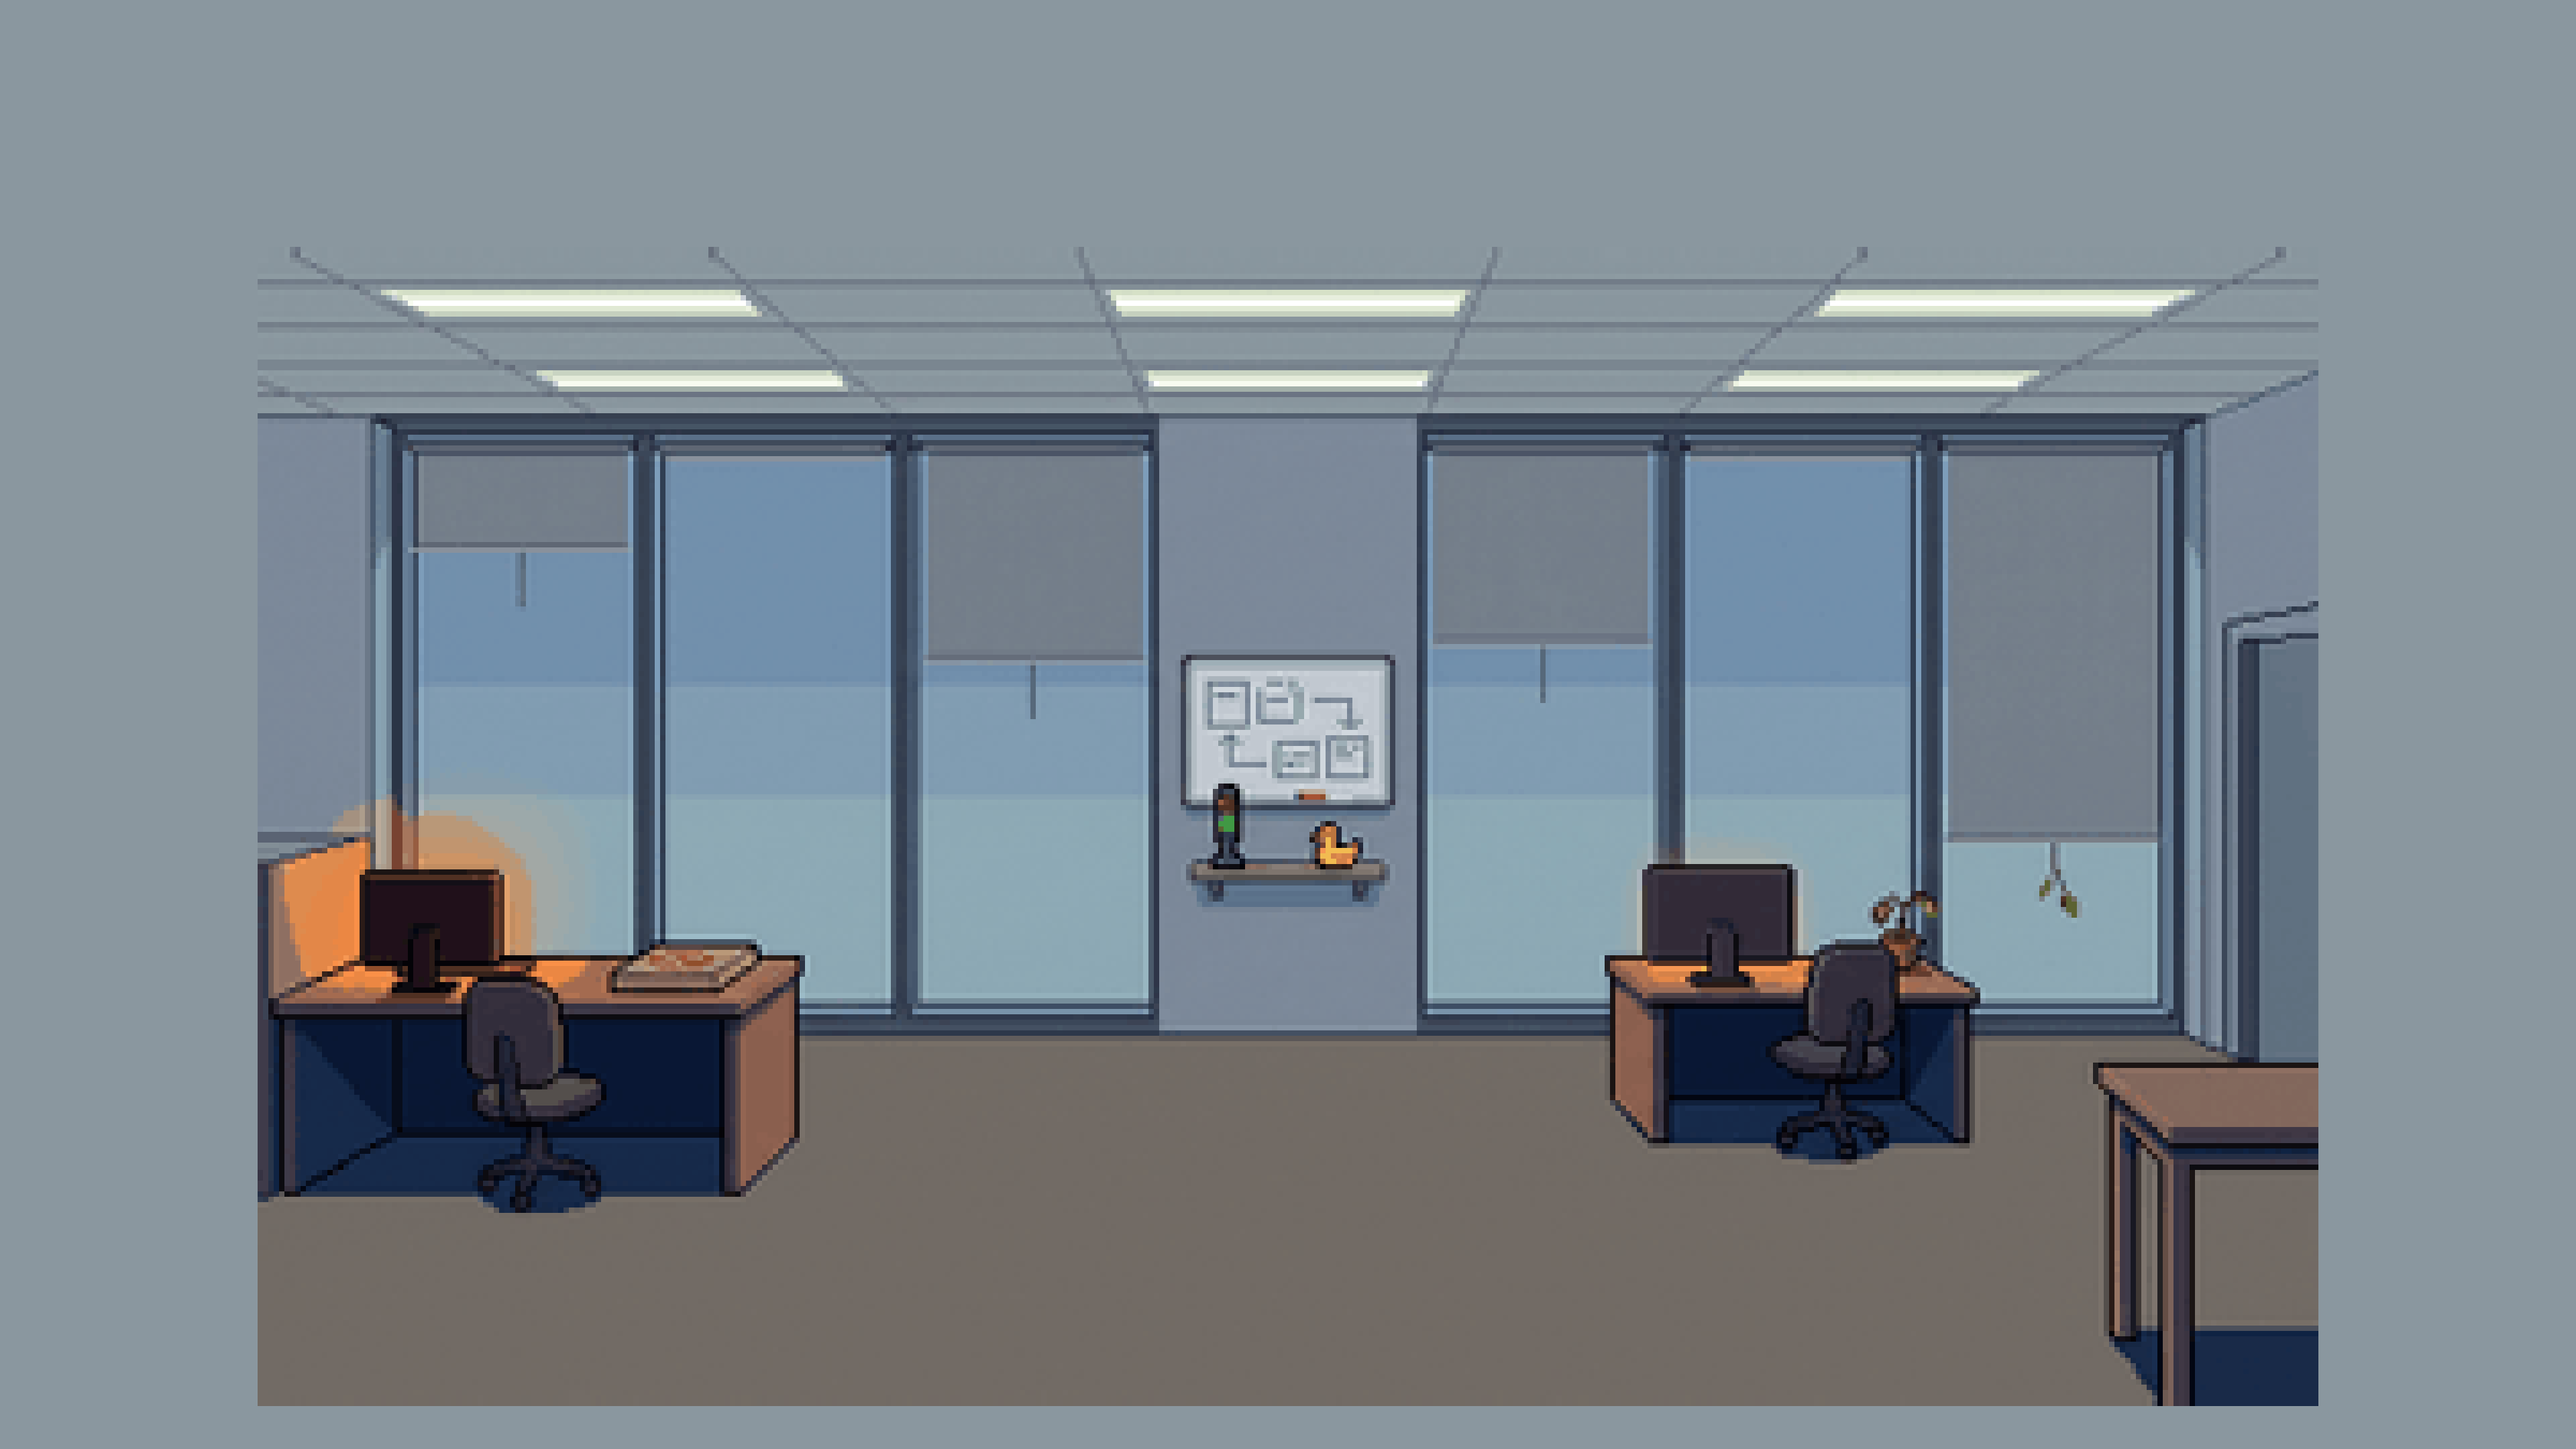
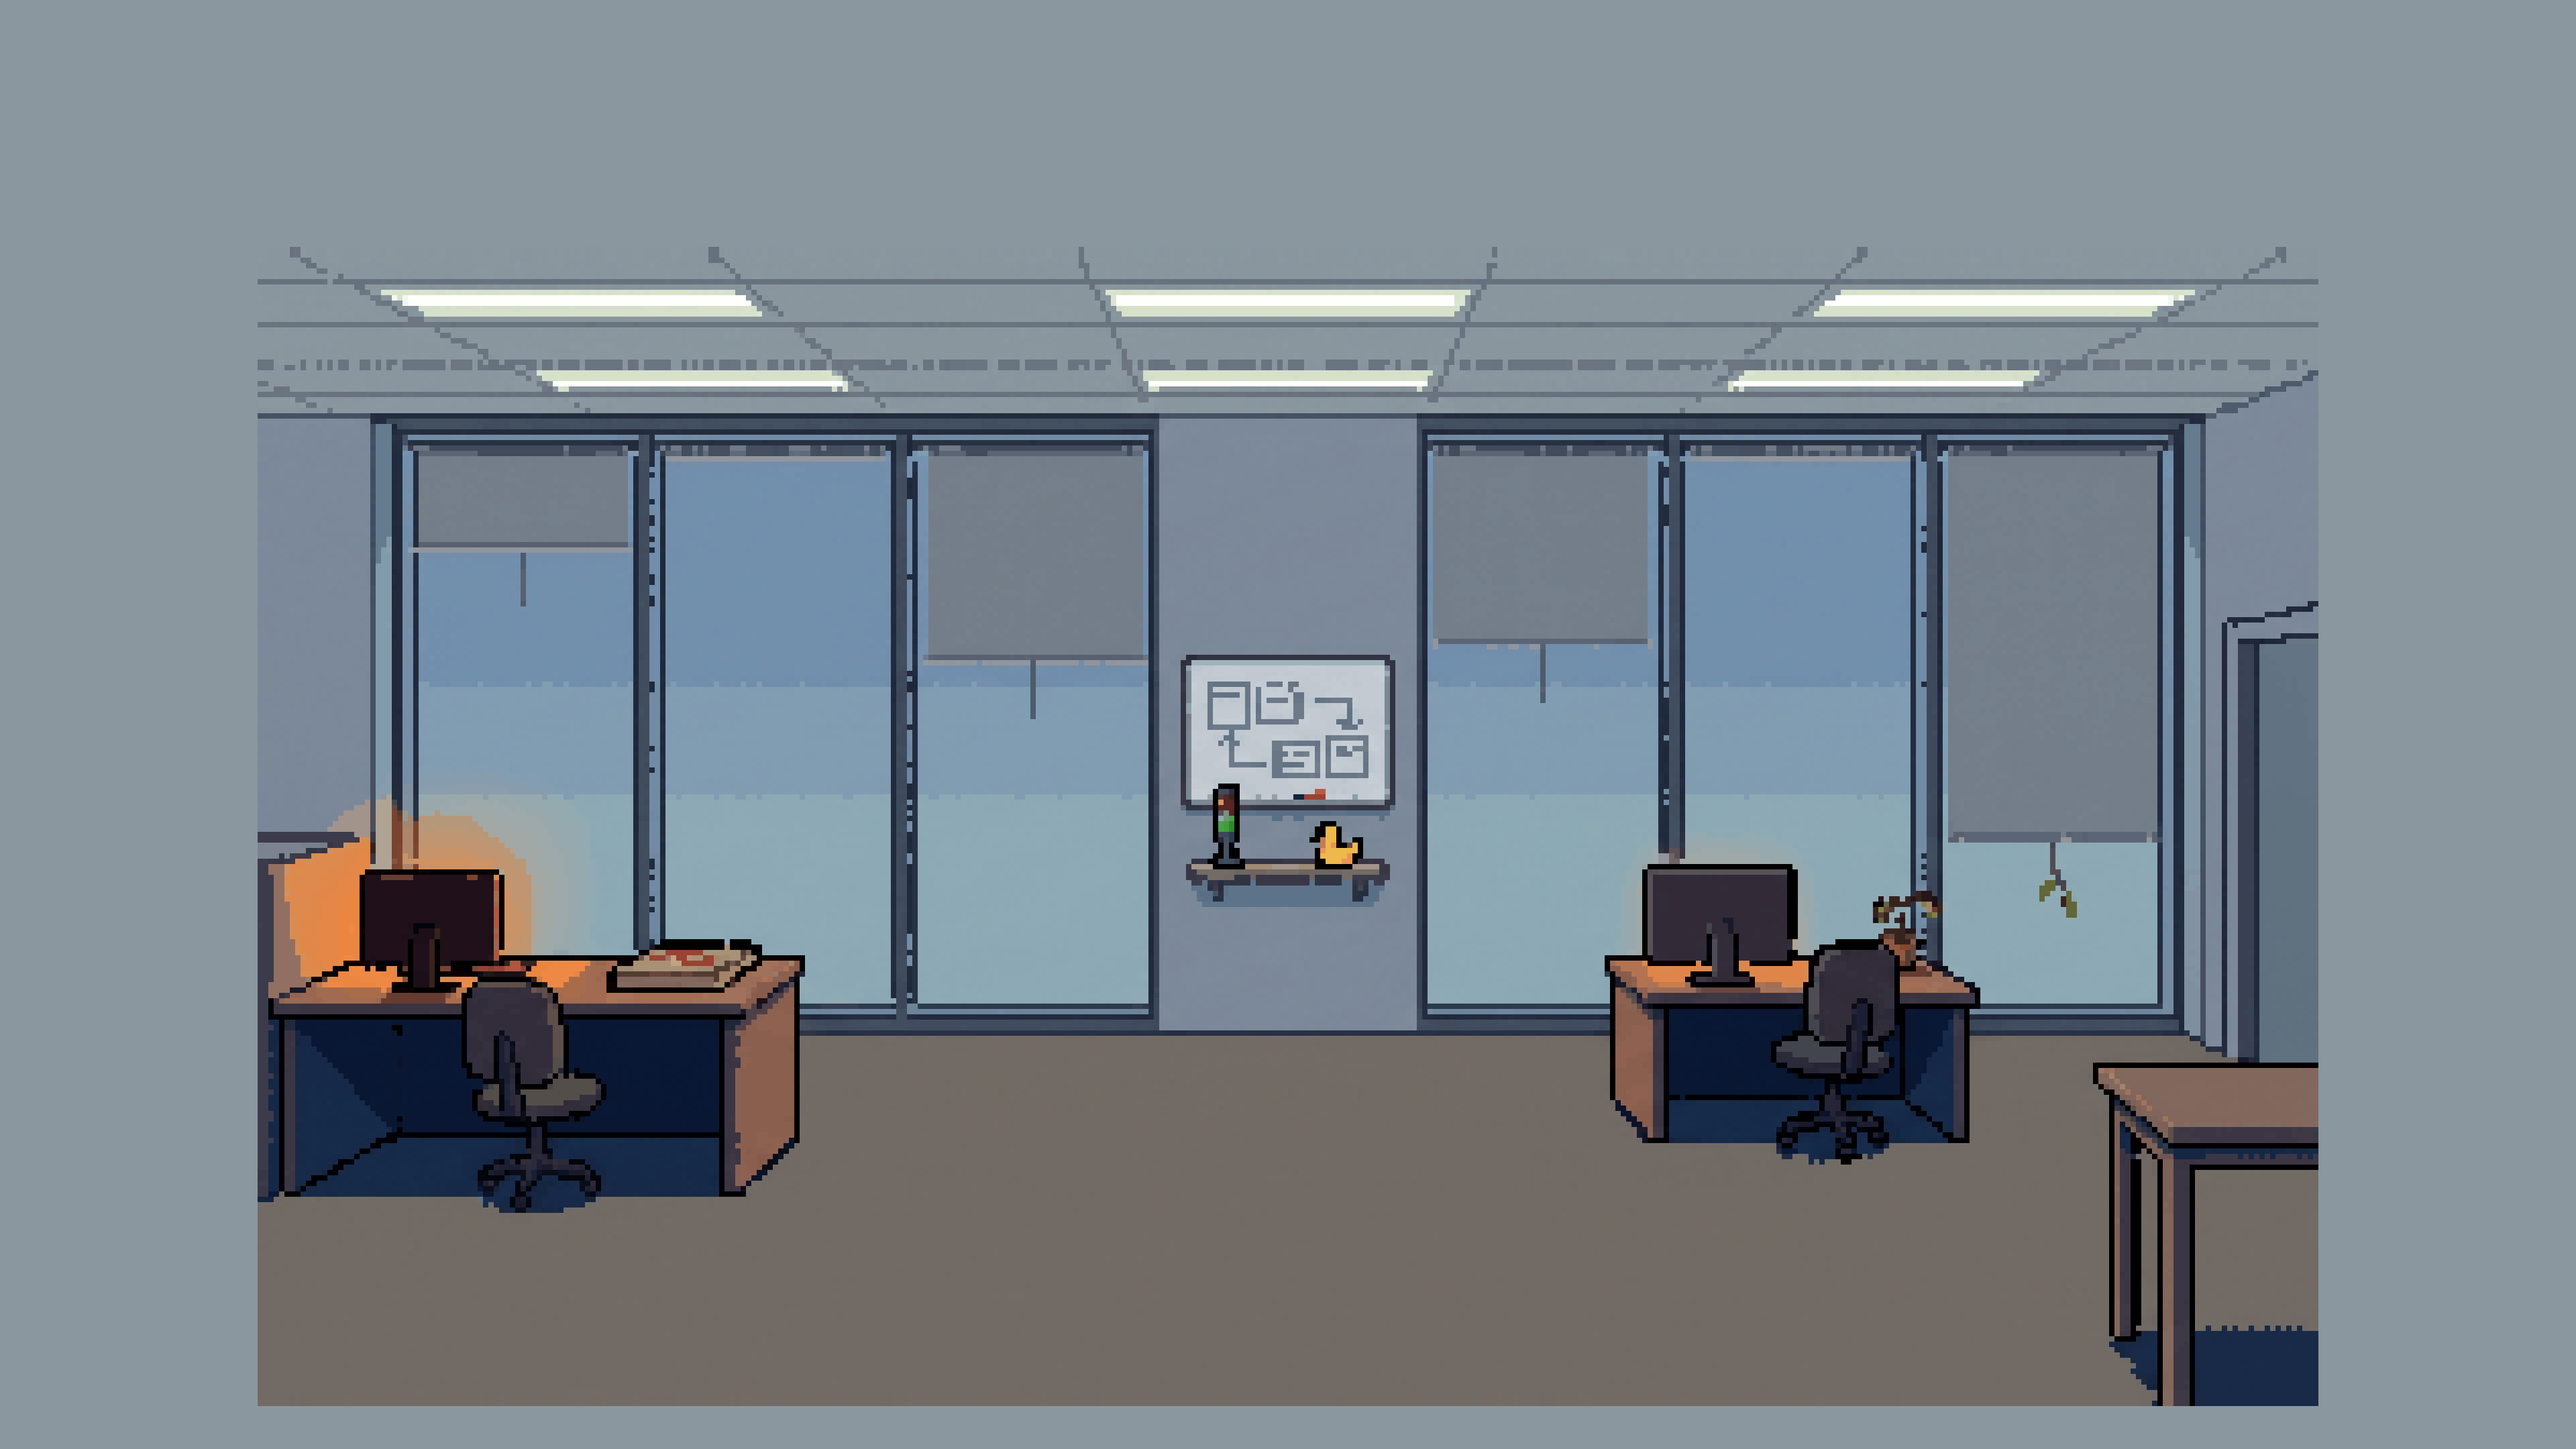
fix(pushback): crisper rooms and phone characters
The rooms were shrunk to fit the cast with a smooth resize, which
turned every one-pixel line into a pale two-pixel one (the meeting
room's whiteboard most of all). shrink.mjs now shrinks on the art's
pixels: each new pixel takes the colour covering most of it, the one
farthest from its surroundings counting double, so marker lines and
lit windows survive. The four loops are rebuilt.

On an iPhone held upright a stage pixel is 3.77 device pixels; the
canvas drawn at 3 was enlarged and blurred. backingFor now draws at
the next whole number up and lets CSS shrink it.

diff --git a/packages/pushback/src/ui/frame.tsx b/packages/pushback/src/ui/frame.tsx
@@ -148,8 +148,8 @@ export const Reflection = ({
  * 480 by 270 render, at the stage's pixels) with the duellists and the
  * ghost standing in it (`band`), under a canvas the size of the stage
  * for the chrome, drawn at the screen's device pixels where a stage
- * pixel is a whole number of them (`backingFor`) and at 3x scaled down
- * smoothly otherwise, plus a DOM overlay in the same frame for
+ * pixel is a whole number of them (`backingFor`) and a little larger,
+ * scaled down smoothly, otherwise, plus a DOM overlay in the same frame for
  * everything that is text. Sits in the same `Stage` as the menu screens,
  * so nothing changes size.
  */
@@ -267,8 +267,8 @@ const FrameBody = ({
       </div>
       {/*
         The chrome, drawn at the device pixels per stage pixel when that is
-        whole, so the canvas is shown at its own size; else at 3x and
-        scaled down smoothly by CSS, which keeps the art's pixels even
+        whole, so the canvas is shown at its own size; else at the next
+        whole number up and scaled down smoothly by CSS, which keeps the art's pixels even
         where `pixelated` would round them. Transparent, so the band and
         the people show through.
       */}

diff --git a/packages/blip-ui/src/foundations/scale.ts b/packages/blip-ui/src/foundations/scale.ts
@@ -125,8 +125,10 @@ export const tallFor = (
 /**
  * A canvas is drawn at a whole-number scale. When the device pixels per
  * stage pixel are whole (`crisp`) that is the number, and the canvas is
- * shown at exactly its own size; else `BACKING`, scaled down smoothly by
- * CSS, which is the best a fraction can do.
+ * shown at exactly its own size; else the next whole number up, never
+ * under `BACKING`, scaled down a little by CSS, which is the best a
+ * fraction can do. Never one under, which the browser would enlarge and
+ * blur (an iPhone held upright shows a stage pixel on 3.77 of its own).
  */
 export const BACKING = 3;
 
@@ -136,7 +138,9 @@ export const crisp = (scale: number, dpr: number): boolean => {
 };
 
 export const backingFor = (scale: number, dpr: number): number =>
-  crisp(scale, dpr) ? Math.round(scale * dpr) : BACKING;
+  crisp(scale, dpr)
+    ? Math.round(scale * dpr)
+    : Math.max(BACKING, Math.ceil(scale * dpr));
 
 /**
  * The overlay's font size at a scale: 16 px at 3x, never below 14 px.

diff --git a/packages/blip-ui/src/foundations/scale.test.ts b/packages/blip-ui/src/foundations/scale.test.ts
@@ -85,6 +85,9 @@ describe('scaleFor', () => {
     assert.equal(backingFor(3, 3), 9);
     assert.equal(backingFor(2, 1), 2);
     assert.equal(backingFor(2.7, 1), BACKING);
+    // An iPhone held upright: drawn at 4 and shown at 3.77, never enlarged
+    assert.equal(backingFor(402 / 320, 3), 4);
+    assert.equal(backingFor(1.172, 2), BACKING);
   });
 });
 

diff --git a/docs/plans/pushback.md b/docs/plans/pushback.md
@@ -516,7 +516,7 @@ Seven work packages, each a mergeable PR with its own tests, ordered so the game
   - [x] The lose moment: lost to the Stakeholder, the round call says `OFFLINE` instead of `YOU LOSE`, tested and with a screenshot (`duel-boss-lost`)
   - [x] Sharing, steps 1 and 2: BitmapText as a layout of rectangles (`bitmapTextLayout`, `drawBitmapText`, the `/` glyph); the card laid out as data (`lib/result-card.ts`, tested for its text, its bounds and no overlaps); drawn on a canvas by `@sebald/pushback/share` (`resultImage`, `drawResultCard`, `loadCardImages`), the window letting the office through faintly; in the inventory as `Result image` with the run's controls, an overlay naming every part and `Save image`
   - [x] Sharing, steps 3 and 4: `Share…` (where the device has a share sheet that takes a picture) or `Copy result` and `Save image` on the result screen, through `shareResult`; flows for the download (a 1200 by 630 PNG) and the share sheet (a stand-in, the picture and the text), the sheet off in the suite by default (`withShareSheet` puts it back); the card saved from the result screen compared pixel for pixel (`result-card.png`)
-  - [ ] Crispness: some of the pixel art looks washed out. First an audit: which screens and pictures, at which device pixel ratios (1, 2, 3) and stage scales, each compared with its native image, so the cause is named before anything changes. The suspects, most likely first: the rooms, shrunk a fifth or a quarter by the loop scripts (`shrink.mjs`, `ROOM_FACTOR` 0.8 and 0.76) with a smooth resize (`lanczos3`) and then snapped back to the palette, so every room pixel is a blend of its neighbours (a fix: shrink on the art's pixels, or a render that fits the cast at factor 1); a stage scale that is not a whole number of device pixels, which shows the 8x export scaled down smoothly by the browser (`sceneFor`); the title's room shown smooth rather than on its pixels and dimmed, and the translucent fills over the art elsewhere, which lower the contrast. Not the encoding: the loops are lossless WebP. Done when the audit's pictures hold their pixels at 1, 2 and 3, the screens' baselines are regenerated and looked at, and the scene tests still pass
+  - [x] Crispness: some of the pixel art looked washed out. The audit (each room against its `native.png`, the sheets, the stage's scale per device): the rooms were the cause on every screen, shrunk by the loop scripts (`ROOM_FACTOR` 0.8 and 0.76) with a smooth resize, so every one-pixel line became a pale two-pixel one; `shrink.mjs` now shrinks on the art's pixels (per new pixel the colour covering most of it, the one farthest from its surroundings counting double, so marker lines and lit windows survive), a few edges stippled where a line falls between two pixels. The sheets were clean (32 colours, no soft edges) and sharp wherever a stage pixel is whole device pixels; an iPhone held upright shows one on 3.77, and the canvas drawn at 3 was enlarged and blurred, so `backingFor` draws at the next whole number up (4) and lets CSS shrink it. Not the encoding (lossless WebP) nor the 8x export; the title's room stays slightly enlarged and dimmed on purpose, a backdrop
 - [x] **7. Lines pass** (read every line aloud in a duel, cut what does not land, check the 70-character limit, confirm each counter reads as a reply next to five decoys, fix boss-3; the closers too). Done when the tables in this spec and `lines.ts` match.
 
 Open questions to settle before package 4:

diff --git a/.claude/skills/pixel-sprite/SKILL.md b/.claude/skills/pixel-sprite/SKILL.md
@@ -183,9 +183,12 @@ furniture and the band the composition rule keeps clear must be clear.
 The finished frames are written a fifth smaller than drawn
 (`scripts/shrink.mjs`, `ROOM_FACTOR` 0.8): three rounds of renders kept
 the furniture too large for the cast, so each loop script hands its
-frames to `shrinkFrames` before `writeLoop`. The frames are scaled
-down smoothly about the floor line, every pixel snapped back to the
-first frame's palette, and padded to the stage with the render's corner
+frames to `shrinkFrames` before `writeLoop`. The frames are shrunk
+about the floor line on the art's pixels: each new pixel takes the
+colour covering most of what it shrinks, the one farthest from its
+surroundings (an outline, a marker line, a lit window) counting double,
+so lines stay one pixel and keep their colour (a smooth shrink washed
+them out, a nearest-neighbour one drops every fifth), and padded to the stage with the render's corner
 colour (never in the window). The loop scripts and `native.png` stay in
 the render's own pixels; only `scene.webp`, `scene-1x.webp` and
 `poster.png` are smaller. Each scene's factor is in
